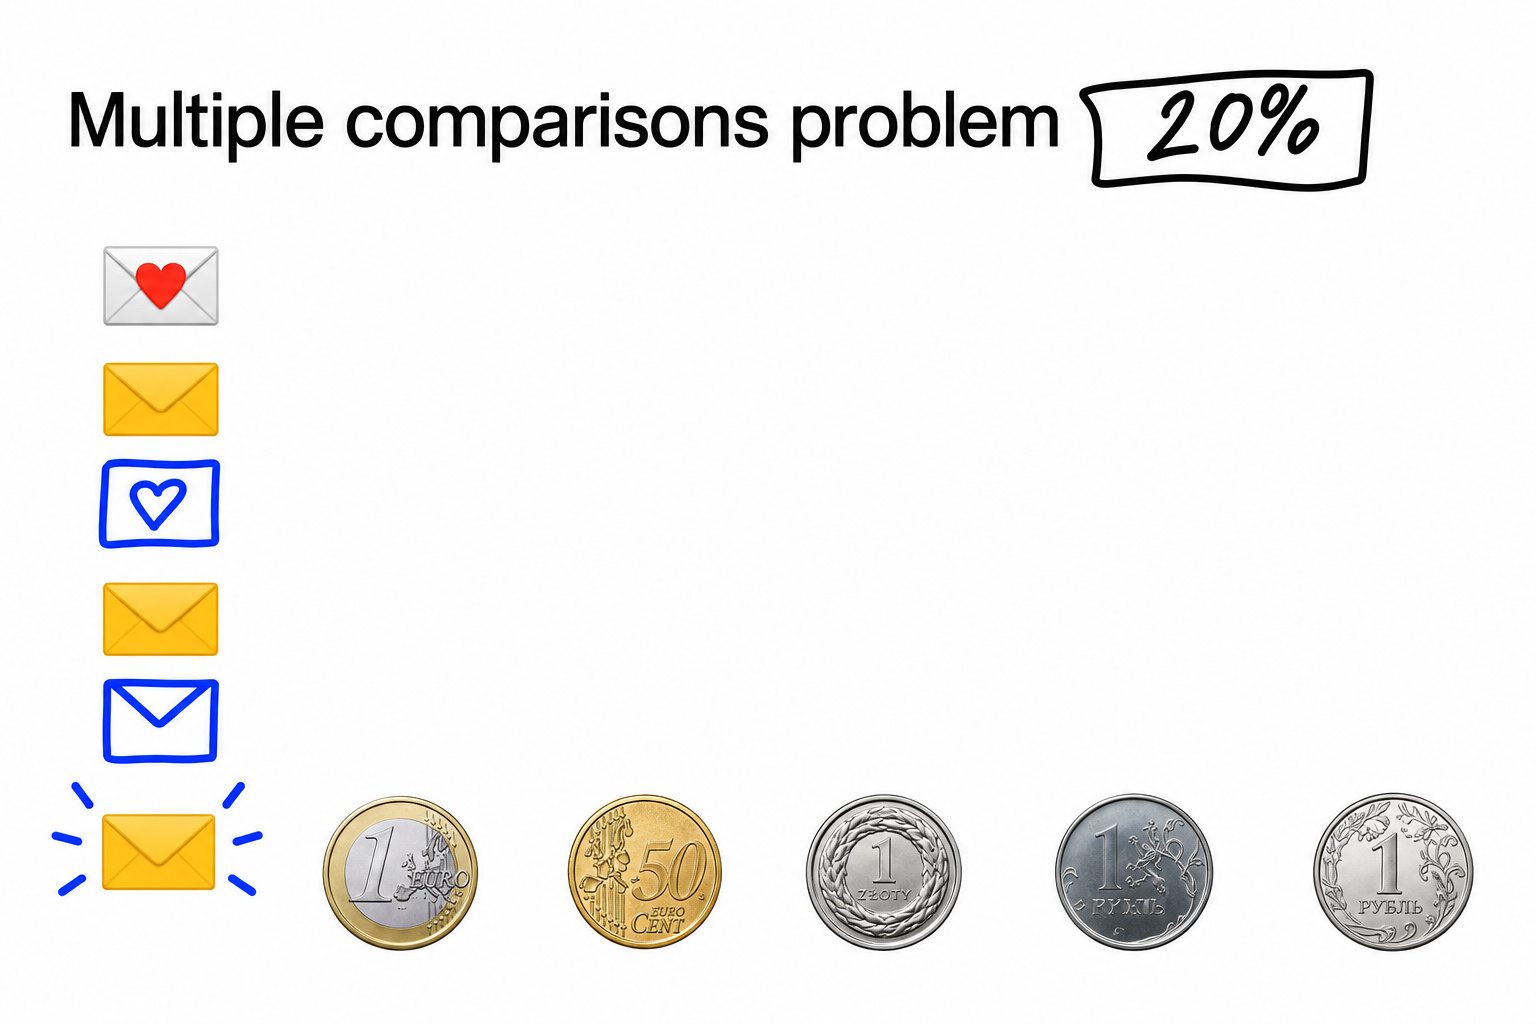
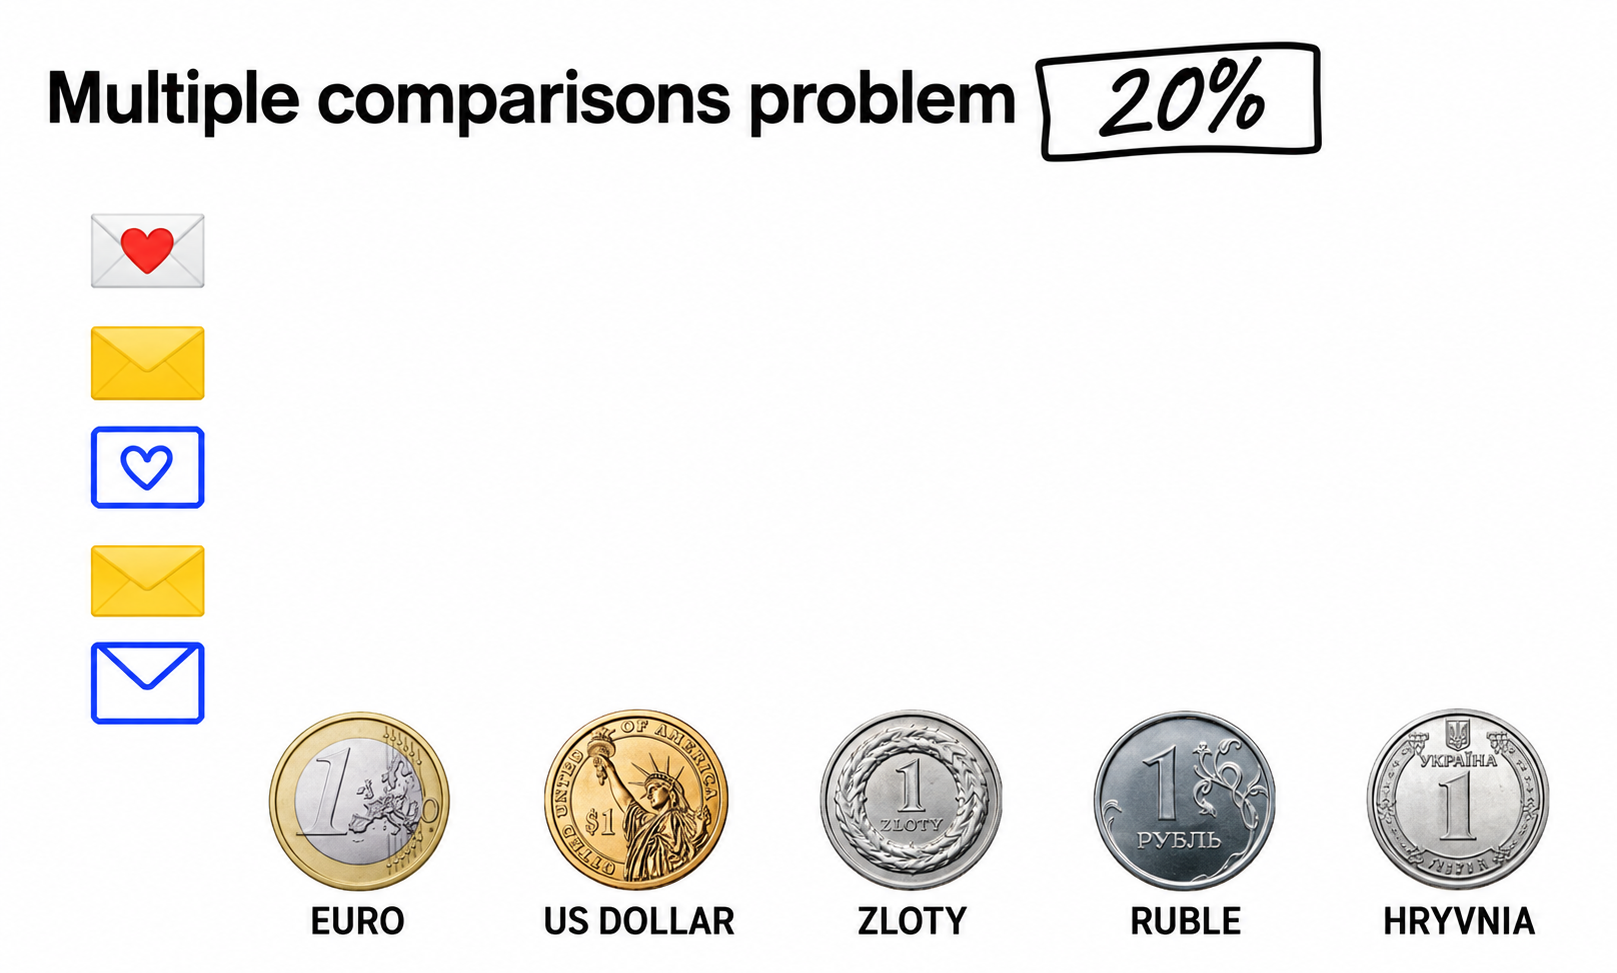
Repair multiple comparisons currency labels

diff --git a/cohorts/2026/01-intro/images/2026-09-08-imagegen-repair-provenance.md b/cohorts/2026/01-intro/images/2026-09-08-imagegen-repair-provenance.md
@@ -15,7 +15,7 @@ imagegen C2PA/OpenAI Media Service markers.
 | Published target | Original non-crisp source | Bounded crop/reference | Imagegen output | Source SHA-256 | Crop/reference SHA-256 | Published output SHA-256 | Validation |
 |---|---|---|---|---|---|---|---|
[5 lines of base64/hex data omitted]
 
@@ -51,3 +51,14 @@ JPEG sources.
 
 The two environment images containing personal faces were intentionally outside
 this batch and were not modified.
+
+## Follow-up replacement
+
+The multiple-comparisons asset was regenerated on 2026-09-08 from the original
+non-crisp JPEG and the bounded crop above. The previous output was not reused as
+an imagegen input and was superseded because it rendered `EURO CENT`, `RIAL`, and
+`РУБЛЬ`-style coin content instead of the lesson's required euro, American dollar,
+Polish zloty, Russian ruble, and Ukrainian hryvnia examples. The replacement was
+copied byte-for-byte from the generated output into the published target. The
+five exact visible labels were checked at native resolution and in the 608px
+lesson-size render.
